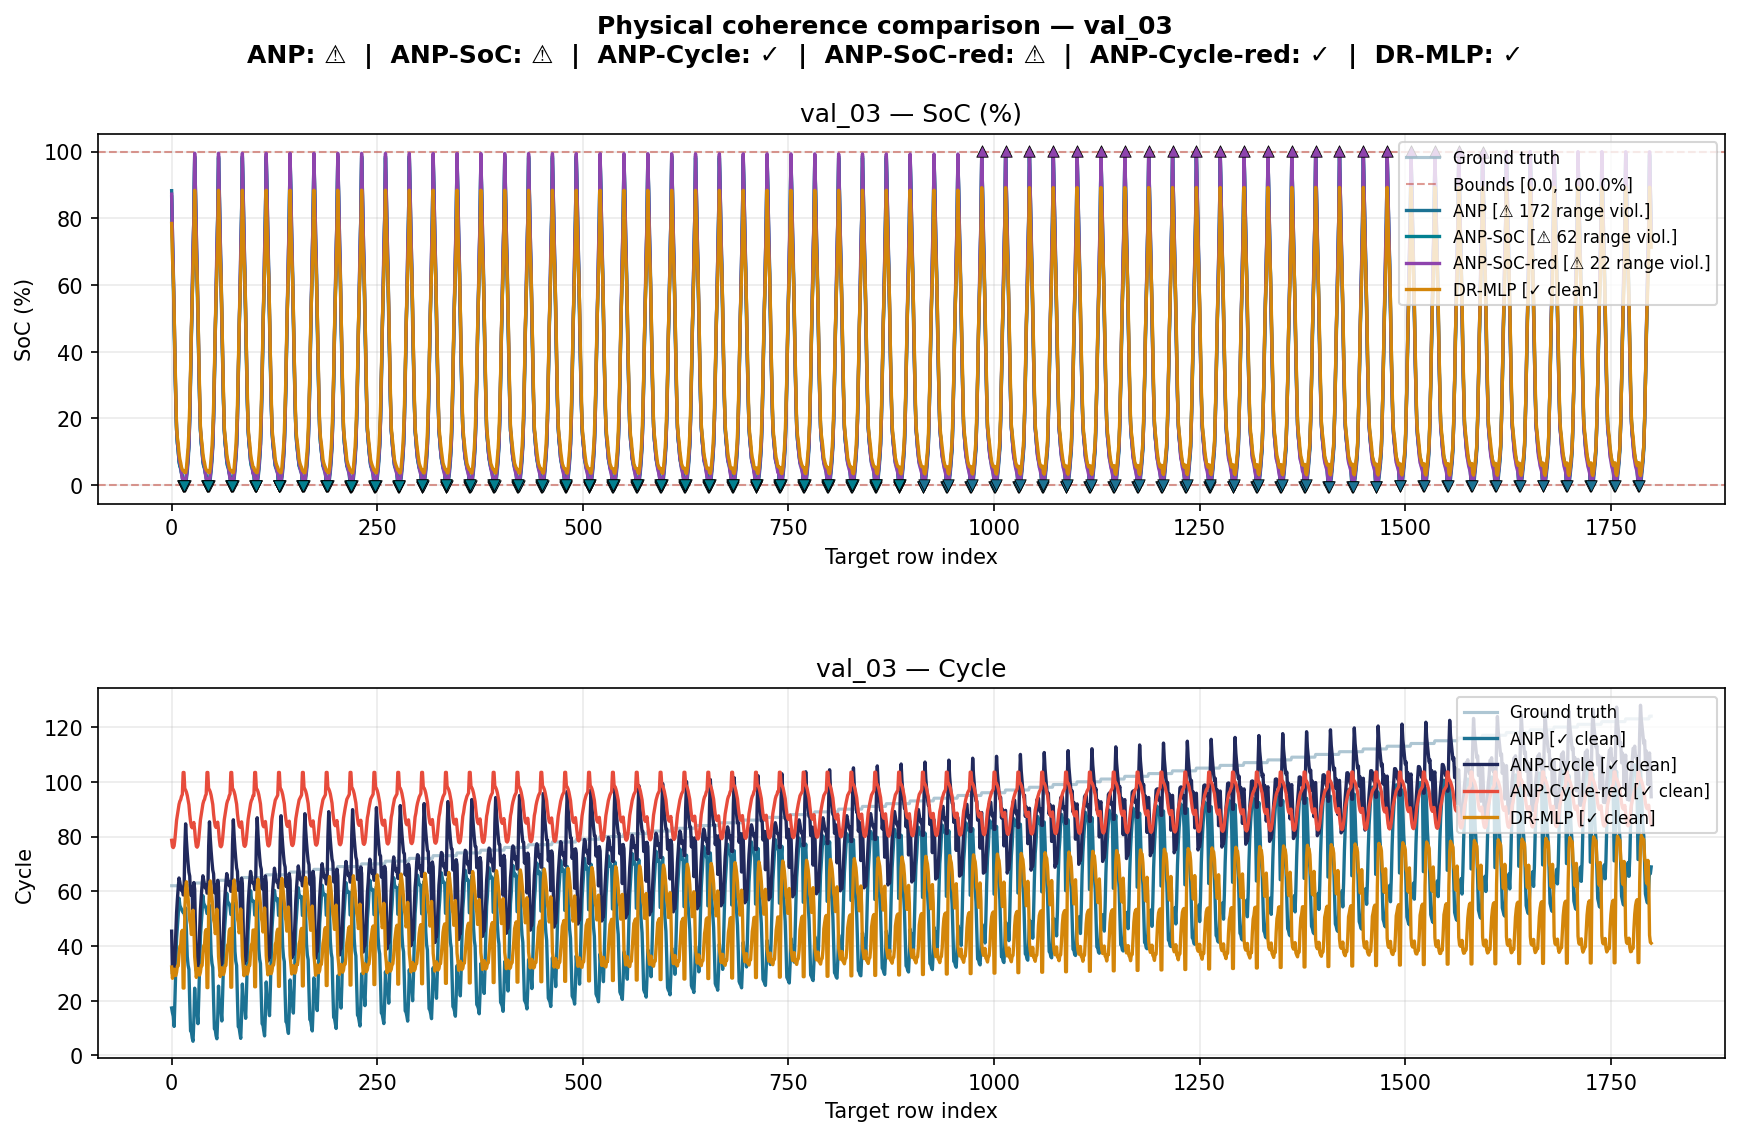
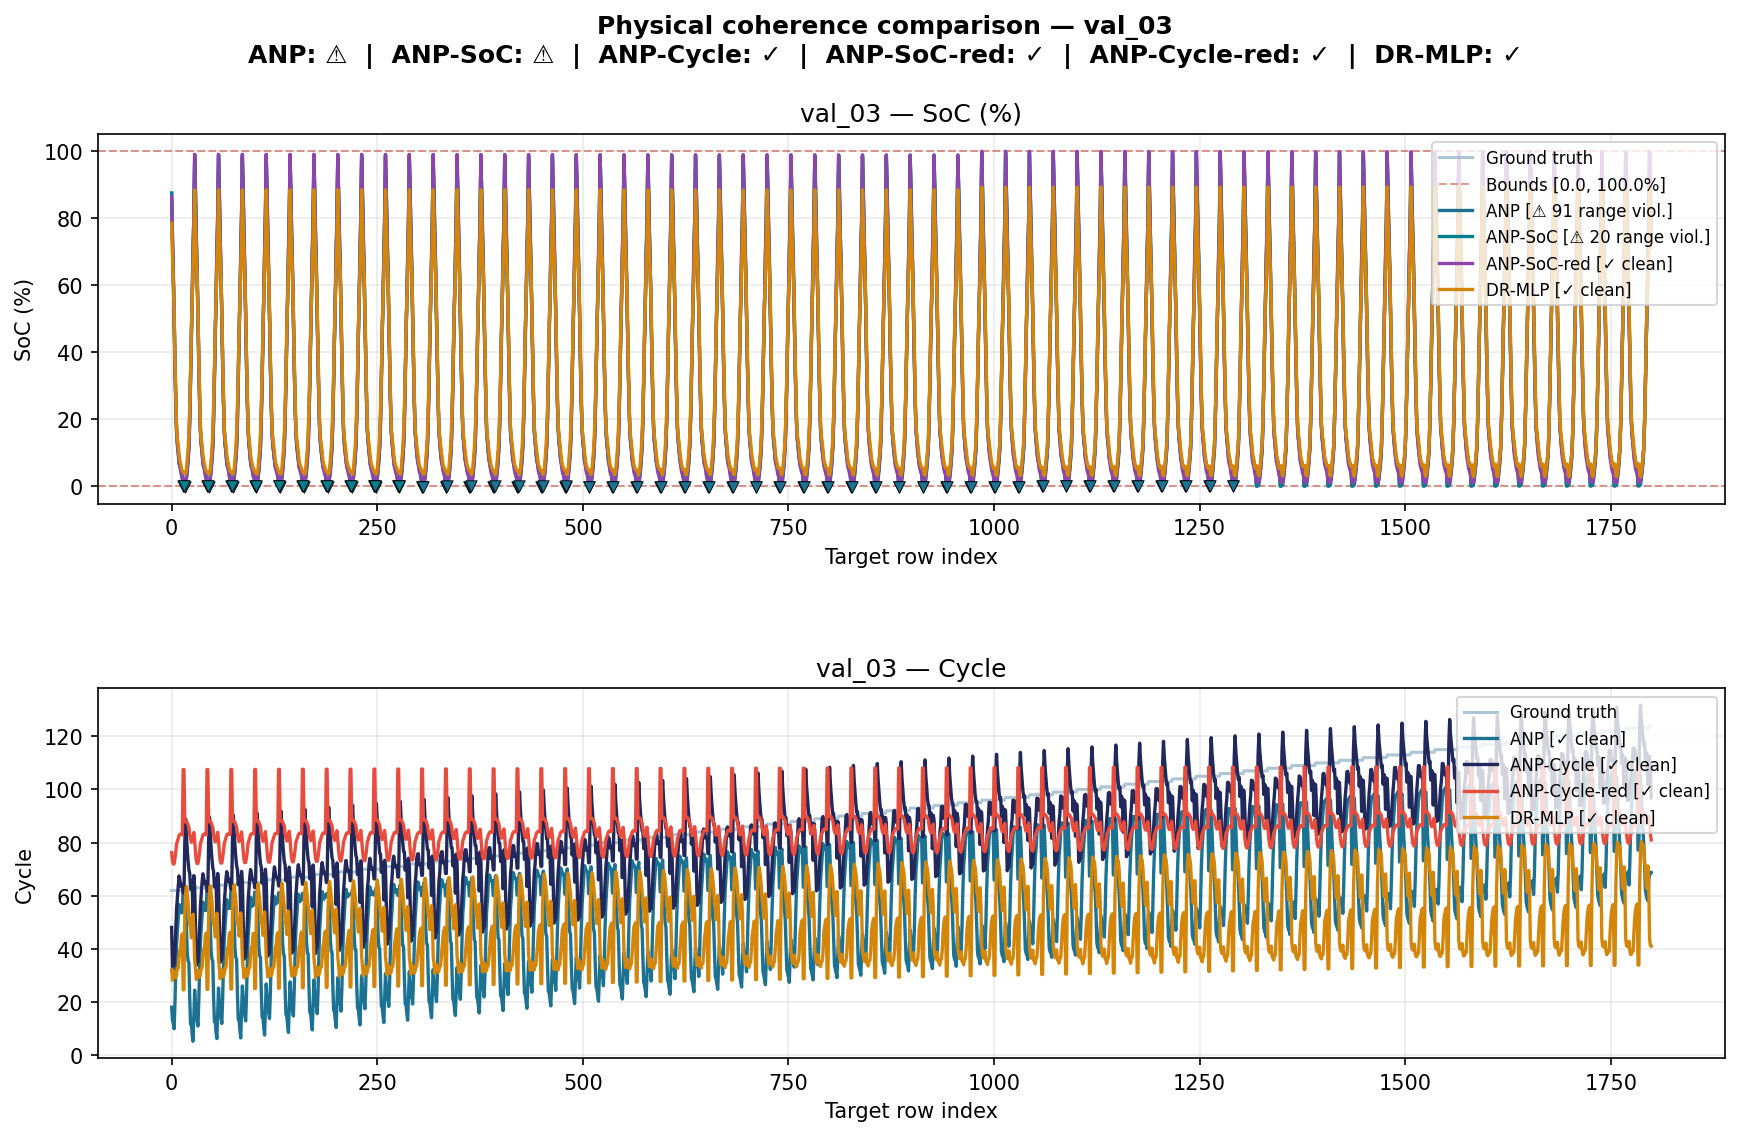
feat: update coherence evaluation reports and plots with revised metrics and improved visualization

diff --git a/underwater-localization-topologies/src/evaluation/finetune_ood.py b/underwater-localization-topologies/src/evaluation/finetune_ood.py
@@ -2,9 +2,7 @@
 """
 finetune_ood.py
 ===============
-Fine-tunes Optuna-optimized ANP/RANP models trained on high-variance data
-towards a low-variance (OoD) target domain, comparing multiple parameter-
-efficient strategies and data budgets.
+Fine-tunes Optuna-optimized ANP/RANP models trained on high-variance data towards a low-variance (OoD) target domain, comparing multiple parameter-efficient strategies and data budgets.
 
 Scenario
 --------
@@ -103,10 +101,8 @@ Notes
 -----
 - Uses existing val split for early-stopping; test split for final evaluation.
 - Normalization stats recomputed from lowvar training data (target domain).
-- Each strategy × n_traj combination starts from a fresh deep-copy of the
-  source (highvar) model, so runs are fully independent.
-- The --skip-existing flag skips configs that already have a saved checkpoint,
-  allowing restartable runs.
+- Each strategy × n_traj combination starts from a fresh deep-copy of the source (highvar) model, so runs are fully independent.
+- The --skip-existing flag skips configs that already have a saved checkpoint, allowing restartable runs.
 """
 
 from __future__ import annotations
@@ -170,16 +166,25 @@ STRATEGY_COLORS = {
     "rnn_full_decoder": "#e74c3c",
 }
 STRATEGY_LABELS = {
-    "decoder_heads":    "Heads only  (mean+var proj.)",
-    "decoder_full":     "Full Decoder",
-    "decoder_det_last": "Full Decoder + Det.Enc. last cross-attn",
-    "decoder_det_full": "Full Decoder + Full Det.Enc.",
-    "decoder_lat_last": "Full Decoder + Lat.Enc. μ/σ heads",
+    "decoder_heads":    "Heads only  (μ/σ proj.)",
+    "decoder_full":     "Full Dec.",
+    "decoder_det_last": "Full Dec. + Det.Enc. last cross-attn",
+    "decoder_det_full": "Full Dec. + Full Det.Enc.",
+    "decoder_lat_last": "Full Dec. + Lat.Enc. μ/σ heads",
     # RANP-specific strategies (touch TemporalEncoder)
-    "rnn_proj_only":    "RANP: RNN input_proj + LayerNorm",
-    "rnn_proj_decoder": "RANP: RNN input_proj + LayerNorm + Full Decoder",
-    "rnn_full_decoder": "RANP: Full TemporalEncoder + Full Decoder",
+    "rnn_proj_only":    "RNN input_proj + LayerNorm",
+    "rnn_proj_decoder": "RNN input_proj + LayerNorm + Full Dec.",
+    "rnn_full_decoder": "Full Temp.Enc. + Full Dec.",
 }
+
+# --- Global plotting controls (tweak these to change all plot fonts/titles) ---
+PLOT_AXIS_LABEL_SIZE = 18
+PLOT_TICK_LABEL_SIZE = 16
+PLOT_LEGEND_SIZE     = 14
+PLOT_TEXT_SIZE       = 16
+PLOT_TITLE_SIZE      = 18
+# If False, plot titles will be omitted
+PLOT_SHOW_TITLES     = False
 
 # =============================================================================
 # Data utilities
@@ -668,6 +673,9 @@ def plot_mae_vs_ntraj(
         alpha=0.07, color="#e74c3c"
     )
 
+    # collect per-strategy minima (mean - std) to determine a sensible y-bottom
+    y_min_vals: list = []
+
     for strategy in strategies:
         y     = np.array([
             mae_results.get((strategy, str(n)), {}).get(context_frac, float("nan"))
@@ -677,6 +685,13 @@ def plot_mae_vs_ntraj(
             mae_std_results.get((strategy, str(n)), {}).get(context_frac, 0.0)
             for n in n_traj_values
         ], dtype=float)
+        # record the (mean - std) minima to know how low plots reach
+        try:
+            diff = y - y_std
+            if np.any(np.isfinite(diff)):
+                y_min_vals.append(float(np.nanmin(diff[np.isfinite(diff)])))
+        except Exception:
+            pass
         ax.plot(
             ticks, y, marker="o",
             color=STRATEGY_COLORS[strategy],
@@ -690,15 +705,34 @@ def plot_mae_vs_ntraj(
 
     ax.set_xticks(ticks)
     ax.set_xticklabels(labels)
-    ax.set_xlabel("N trajectories for fine-tuning", fontsize=11)
-    ax.set_ylabel("MAE  (m)  —  inverse holdout", fontsize=11)
-    ax.set_title(
-        f"MAE vs. data budget   |   ctx = {int(context_frac*100)}%",
-        fontsize=12
-    )
-    ax.legend(fontsize=9, loc="upper right")
+    ax.set_xlabel("N trajectories for fine-tuning", fontsize=PLOT_AXIS_LABEL_SIZE)
+    ax.set_ylabel("MAE  (m)  —  inverse holdout", fontsize=PLOT_AXIS_LABEL_SIZE)
+    if PLOT_SHOW_TITLES:
+        ax.set_title(
+            f"MAE vs. data budget   |   ctx = {int(context_frac*100)}%",
+            fontsize=PLOT_TITLE_SIZE
+        )
+    ax.legend(fontsize=PLOT_LEGEND_SIZE, loc="upper right")
     ax.grid(alpha=0.3)
-    ax.set_ylim(bottom=0)
+    ax.tick_params(axis="both", labelsize=PLOT_TICK_LABEL_SIZE)
+    # Adjust y-axis bottom to be closer to the Oracle (with a small margin)
+    try:
+        if np.isfinite(oracle):
+            min_all = float(np.nanmin(y_min_vals)) if y_min_vals else float(oracle)
+            # prefer oracle as reference but allow values below it
+            bottom_ref = min(min_all, float(oracle))
+            # margin scaled by gap (ood - oracle) when available, otherwise absolute
+            if np.isfinite(ood) and np.isfinite(oracle) and (ood - oracle) > 0:
+                delta = float(ood - oracle)
+                margin = max(0.05 * delta, 0.1)
+            else:
+                margin = 0.1
+            y_bottom = max(0.0, bottom_ref - margin)
+            ax.set_ylim(bottom=y_bottom)
+        else:
+            ax.set_ylim(bottom=0)
+    except Exception:
+        ax.set_ylim(bottom=0)
     save_path.parent.mkdir(parents=True, exist_ok=True)
     fig.tight_layout()
     fig.savefig(save_path, dpi=160)
@@ -751,15 +785,17 @@ def plot_gap_closed(
 
     ax.set_xticks(ticks)
     ax.set_xticklabels(labels)
-    ax.set_xlabel("N trajectories for fine-tuning", fontsize=11)
-    ax.set_ylabel("% of OoD gap closed", fontsize=11)
-    ax.set_title(
-        f"Gap closure  |  ctx = {int(context_frac*100)}%"
-        f"  (gap = {gap:.2f} m)",
-        fontsize=12
-    )
-    ax.legend(fontsize=9)
+    ax.set_xlabel("N trajectories for fine-tuning", fontsize=PLOT_AXIS_LABEL_SIZE)
+    ax.set_ylabel("% of OoD gap closed", fontsize=PLOT_AXIS_LABEL_SIZE)
+    if PLOT_SHOW_TITLES:
+        ax.set_title(
+            f"Gap closure  |  ctx = {int(context_frac*100)}%"
+            f"  (gap = {gap:.2f} m)",
+            fontsize=PLOT_TITLE_SIZE
+        )
+    ax.legend(fontsize=PLOT_LEGEND_SIZE)
     ax.grid(alpha=0.3)
+    ax.tick_params(axis="both", labelsize=PLOT_TICK_LABEL_SIZE)
     save_path.parent.mkdir(parents=True, exist_ok=True)
     fig.tight_layout()
     fig.savefig(save_path, dpi=160)
@@ -787,11 +823,13 @@ def plot_time_vs_ntraj(
 
     ax.set_xticks(ticks)
     ax.set_xticklabels(labels)
-    ax.set_xlabel("N trajectories for fine-tuning", fontsize=11)
-    ax.set_ylabel("Fine-tuning time (s)", fontsize=11)
-    ax.set_title("Fine-tuning time vs. data budget", fontsize=12)
-    ax.legend(fontsize=9)
+    ax.set_xlabel("N trajectories for fine-tuning", fontsize=PLOT_AXIS_LABEL_SIZE)
+    ax.set_ylabel("Fine-tuning time (s)", fontsize=PLOT_AXIS_LABEL_SIZE)
+    if PLOT_SHOW_TITLES:
+        ax.set_title("Fine-tuning time vs. data budget", fontsize=PLOT_TITLE_SIZE)
+    ax.legend(fontsize=PLOT_LEGEND_SIZE)
     ax.grid(alpha=0.3)
+    ax.tick_params(axis="both", labelsize=PLOT_TICK_LABEL_SIZE)
     save_path.parent.mkdir(parents=True, exist_ok=True)
     fig.tight_layout()
     fig.savefig(save_path, dpi=160)
@@ -831,13 +869,15 @@ def plot_pareto(
                 linewidth=1.5, markersize=7)
         for x, y, lbl in zip(xs, ys, lbls):
             ax.annotate(lbl, (x, y), textcoords="offset points",
-                        xytext=(4, 4), fontsize=7, alpha=0.85)
+                        xytext=(4, 4), fontsize=PLOT_TEXT_SIZE, alpha=0.85)
 
-    ax.set_xlabel("Fine-tuning time (s)", fontsize=11)
-    ax.set_ylabel(f"MAE (m) — ctx = {int(context_frac*100)}%", fontsize=11)
-    ax.set_title("Pareto frontier: time vs. quality", fontsize=12)
-    ax.legend(fontsize=9)
+    ax.set_xlabel("Fine-tuning time (s)", fontsize=PLOT_AXIS_LABEL_SIZE)
+    ax.set_ylabel(f"MAE (m) — ctx = {int(context_frac*100)}%", fontsize=PLOT_AXIS_LABEL_SIZE)
+    if PLOT_SHOW_TITLES:
+        ax.set_title("Pareto frontier: time vs. quality", fontsize=PLOT_TITLE_SIZE)
+    ax.legend(fontsize=PLOT_LEGEND_SIZE)
     ax.grid(alpha=0.3)
+    ax.tick_params(axis="both", labelsize=PLOT_TICK_LABEL_SIZE)
     save_path.parent.mkdir(parents=True, exist_ok=True)
     fig.tight_layout()
     fig.savefig(save_path, dpi=160)
@@ -875,14 +915,16 @@ def plot_context_sweep(
                 label=STRATEGY_LABELS[strategy],
                 linewidth=2, markersize=6)
 
-    ax.set_xlabel("Context fraction (%)", fontsize=11)
-    ax.set_ylabel("MAE  (m)", fontsize=11)
-    ax.set_title(
-        f"MAE vs. context fraction  |  n_traj = {n_traj_highlight}",
-        fontsize=12
-    )
-    ax.legend(fontsize=9)
+    ax.set_xlabel("Context fraction (%)", fontsize=PLOT_AXIS_LABEL_SIZE)
+    ax.set_ylabel("MAE  (m)", fontsize=PLOT_AXIS_LABEL_SIZE)
+    if PLOT_SHOW_TITLES:
+        ax.set_title(
+            f"MAE vs. context fraction  |  n_traj = {n_traj_highlight}",
+            fontsize=PLOT_TITLE_SIZE
+        )
+    ax.legend(fontsize=PLOT_LEGEND_SIZE)
     ax.grid(alpha=0.3)
+    ax.tick_params(axis="both", labelsize=PLOT_TICK_LABEL_SIZE)
     ax.set_ylim(bottom=0)
     save_path.parent.mkdir(parents=True, exist_ok=True)
     fig.tight_layout()
@@ -926,11 +968,12 @@ def plot_finetune_curves(
                     label=STRATEGY_LABELS[strategy],
                     linewidth=1.6, alpha=0.9)
 
-        ax.set_title(f"n_traj = {n}", fontsize=10)
-        ax.set_xlabel("Epoch", fontsize=10)
+        ax.set_title(f"n_traj = {n}", fontsize=PLOT_TITLE_SIZE if PLOT_SHOW_TITLES else PLOT_TITLE_SIZE)
+        ax.set_xlabel("Epoch", fontsize=PLOT_AXIS_LABEL_SIZE)
         ax.grid(alpha=0.3)
+        ax.tick_params(axis="both", labelsize=PLOT_TICK_LABEL_SIZE)
 
-    axes[0].set_ylabel("Val MAE (m)", fontsize=11)
+    axes[0].set_ylabel("Val MAE (m)", fontsize=PLOT_AXIS_LABEL_SIZE)
 
     handles = (
         [Line2D([0], [0], color=STRATEGY_COLORS[s], lw=2, label=STRATEGY_LABELS[s])
@@ -940,8 +983,9 @@ def plot_finetune_curves(
             Line2D([0], [0], color="#2c3e50", lw=1.5, ls="--", label="Oracle"),
         ]
     )
-    fig.legend(handles=handles, loc="upper right", fontsize=8, frameon=True)
-    fig.suptitle("Fine-tuning curves — val MAE over epochs", fontsize=12)
+    fig.legend(handles=handles, loc="upper right", fontsize=PLOT_LEGEND_SIZE, frameon=True)
+    if PLOT_SHOW_TITLES:
+        fig.suptitle("Fine-tuning curves — val MAE over epochs", fontsize=PLOT_TITLE_SIZE)
     fig.tight_layout(rect=[0, 0, 0.82, 1])
     save_path.parent.mkdir(parents=True, exist_ok=True)
     fig.savefig(save_path, dpi=160)
@@ -975,21 +1019,28 @@ def plot_summary_heatmap(
     ax.set_xticks(range(len(n_traj_values)))
     ax.set_xticklabels([str(n) for n in n_traj_values])
     ax.set_yticks(range(len(strategies)))
-    ax.set_yticklabels([STRATEGY_LABELS[s] for s in strategies], fontsize=9)
-    ax.set_xlabel("N trajectories", fontsize=11)
-    ax.set_title(
-        f"% of OoD gap closed  |  ctx = {int(context_frac*100)}%\n"
-        f"(gap = {gap:.2f} m;  OoD = {ood_mae:.2f} m;  oracle = {oracle_mae:.2f} m)",
-        fontsize=11
-    )
+    ax.set_yticklabels([STRATEGY_LABELS[s] for s in strategies], fontsize=PLOT_TICK_LABEL_SIZE)
+    ax.set_xlabel("N trajectories", fontsize=PLOT_AXIS_LABEL_SIZE)
+    if PLOT_SHOW_TITLES:
+        ax.set_title(
+            f"% of OoD gap closed  |  ctx = {int(context_frac*100)}%\n"
+            f"(gap = {gap:.2f} m;  OoD = {ood_mae:.2f} m;  oracle = {oracle_mae:.2f} m)",
+            fontsize=PLOT_TITLE_SIZE
+        )
     for i in range(len(strategies)):
         for j in range(len(n_traj_values)):
-            txt = f"{mat[i,j]:.0f}%" if np.isfinite(mat[i, j]) else "—"
-            ax.text(j, i, txt, ha="center", va="center", fontsize=8,
+                txt = f"{mat[i,j]:.0f}%" if np.isfinite(mat[i, j]) else "—"
+                ax.text(j, i, txt, ha="center", va="center", fontsize=PLOT_TEXT_SIZE,
                     color="black" if 20 < mat[i, j] < 80 else "white"
                     if np.isfinite(mat[i, j]) else "gray")
 
-    fig.colorbar(im, ax=ax, fraction=0.03, pad=0.02, label="% gap closed")
+    cbar = fig.colorbar(im, ax=ax, fraction=0.03, pad=0.02, label="% gap closed")
+    try:
+        cbar.ax.tick_params(labelsize=PLOT_TICK_LABEL_SIZE)
+        cbar.set_label('% gap closed', fontsize=PLOT_AXIS_LABEL_SIZE)
+    except Exception:
+        pass
+    ax.tick_params(axis="both", labelsize=PLOT_TICK_LABEL_SIZE)
     fig.tight_layout()
     save_path.parent.mkdir(parents=True, exist_ok=True)
     fig.savefig(save_path, dpi=160)

diff --git a/csic/evaluate/test_physical_coherence.py b/csic/evaluate/test_physical_coherence.py
@@ -38,7 +38,7 @@ Usage:
         --anp_soc_run         ../train/runs/anp_SoC/20260512_114601 \
         --anp_cycle_run       ../train/runs/anp_Cycle/20260512_114703 \
         --anp_soc_reduced_run   ../train/runs/anp_SoC_reduced/20260513_110544 \
-        --anp_cycle_reduced_run ../train/runs/anp_Cycle_reduced/20260513_114323 \
+        --anp_cycle_reduced_run ../train/runs/anp_Cycle_reduced/20260514_122442 \
         --data_dir            ../csic_real_synth_load/prepared_data
 
 Location: csic/validation/test_physical_coherence.py
